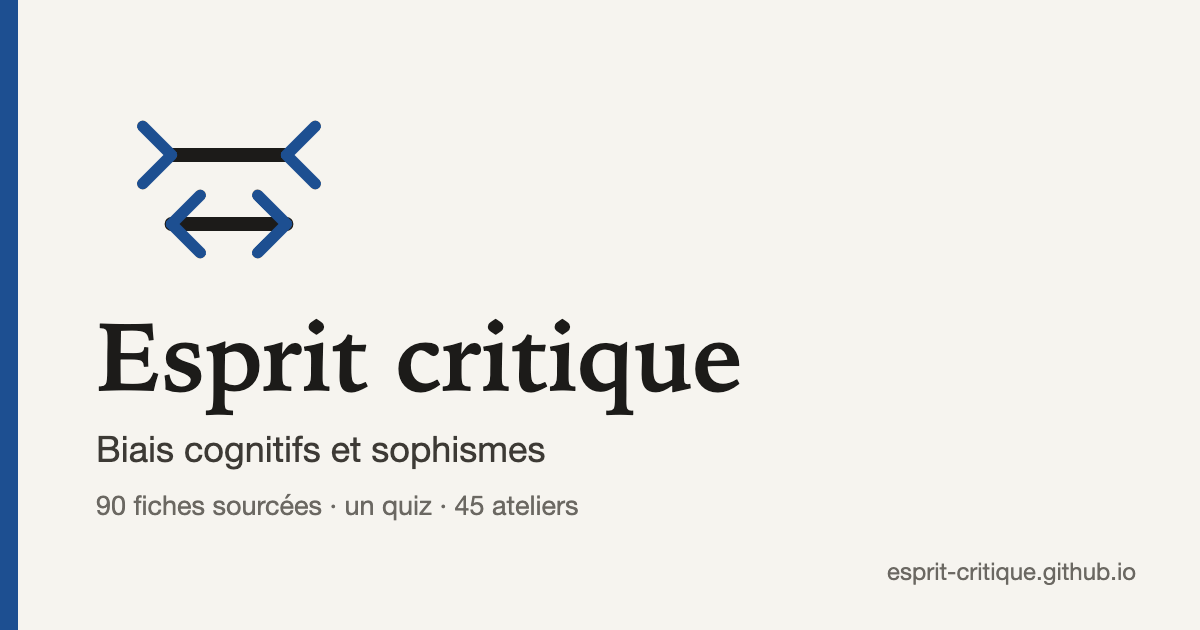
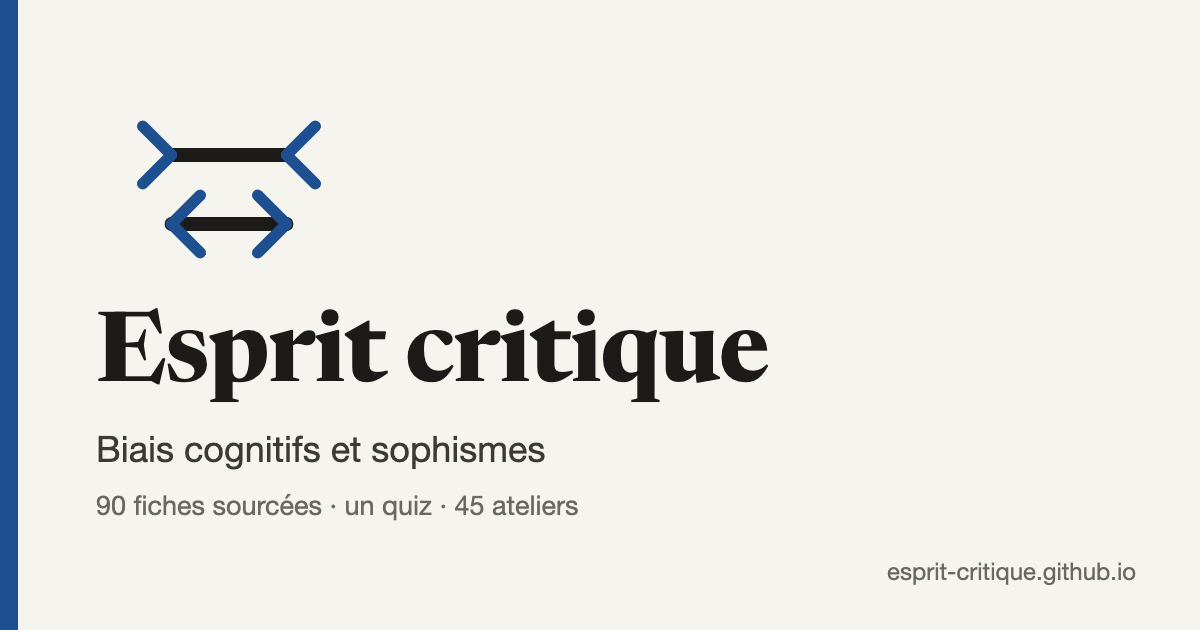
Identité, touche 6 : l'emblème comme ouverture ; charte DESIGN.md
- accueil d'un nouveau visiteur (aucune activité, aucun atelier) : l'emblème en
  grand, « Ces deux traits ont la même longueur » ; toucher le dessin (bouton,
  aria-pressed) révèle les repères, avec les classes de l'emblème de l'en-tête ;
- DESIGN.md : polices, couleurs, motif, corrections, numérotation, interdits ;
- image de partage régénérée en Newsreader (tests/pages/generer_apercu.sh) ;
- planches avant / après : tests/pages/planche.sh et planches.py.

Changed region(s): [[0.0617, 0.4825, 0.6475, 0.6635]]

diff --git a/static/app.js b/static/app.js
@@ -701,12 +701,38 @@ function situationDuJour() {
   return creerQuestion(type, fiche, alea);
 }
 
+// L'emblème de Müller-Lyer en grand : toucher le dessin révèle que les deux traits ont la même longueur.
+// Mêmes classes que l'emblème de l'en-tête (embleme-trait, embleme-ailette, embleme-guide, revele).
+function ouverture() {
+  const bloc = el("div", "ouverture");
+  const bouton = el("button", "ouverture-dessin");
+  bouton.setAttribute("aria-pressed", "false");
+  bouton.setAttribute("aria-label", "Vérifier : afficher des repères verticaux aux extrémités des traits");
+  const dessin = svg("svg", { viewBox: "0 0 40 28", class: "embleme", "aria-hidden": "true" });
+  dessin.append(svg("path", { class: "embleme-guide", d: "M10 2v24M30 2v24" }), svg("path", { class: "embleme-trait", d: "M10 8h20M10 20h20" }),
+    svg("path", { class: "embleme-ailette", d: "M10 8 5 3M10 8l-5 5M30 8l5-5M30 8l5 5M10 20l5-5M10 20l5 5M30 20l-5-5M30 20l-5 5" }));
+  bouton.appendChild(dessin);
+  bouton.addEventListener("click", () => {
+    const revele = dessin.classList.toggle("revele");
+    bouton.setAttribute("aria-pressed", String(revele));
+    if (revele) annoncer("Les repères le montrent : les deux traits ont la même longueur.");
+  });
+  const texte = el("p", null, "Ces deux traits ont la même longueur.");
+  texte.appendChild(el("small", null, "Le savoir ne change rien à ce que l'on voit : c'est tout le problème des biais. Touchez pour vérifier."));
+  bloc.append(bouton, texte);
+  return bloc;
+}
+
 function afficherAccueil() {
   const zone = $("vue-accueil");
   zone.innerHTML = "";
   const date = new Date().toLocaleDateString("fr-FR", { weekday: "long", day: "numeric", month: "long" });
   zone.append(el("p", "date-du-jour", date.charAt(0).toUpperCase() + date.slice(1)), el("h1", "page-titre", "Aujourd'hui"));
   zone.appendChild(el("p", "page-intro", BIAIS.length + " biais et " + SOPHISMES.length + " sophismes, un quiz qui revient sur vos erreurs, et " + tousLesAteliers().length + " ateliers : données réelles, perception, expériences classiques et philosophie."));
+
+  // Ouverture : pour un nouveau visiteur (aucune activité, aucun atelier), l'emblème en grand, première leçon du site
+  const resultats = lire("resultatsAteliers", {});
+  if (!lire("activite", []).length && !Object.keys(formeDe(resultats) === "objet" ? resultats : {}).length) zone.appendChild(ouverture());
 
   // Appel à l'action : réviser s'il y a des notions dues, sinon commencer le quiz ; les fiches en second choix
   const nbAReviser = clesAReviser().length;

diff --git a/tests/_test.html b/tests/_test.html
@@ -250,6 +250,20 @@ f.onload = async () => {
     ok("repérage : bloc du portrait", /Vos repérages/.test(vue().textContent) && /une publicité de soldes/.test(vue().textContent));
 
 
+    // ---------- Ouverture de l'accueil ----------
+    const sauveActivite = w.localStorage.getItem("activite"), sauveResultats = w.localStorage.getItem("resultatsAteliers");
+    w.localStorage.removeItem("activite"); w.localStorage.removeItem("resultatsAteliers");
+    await aller("quiz"); await aller("accueil");
+    const boutonOuv = vue().querySelector(".ouverture-dessin");
+    ok("ouverture : visible pour un nouveau visiteur, avant l'appel à l'action", !!boutonOuv && boutonOuv.closest(".ouverture").nextElementSibling.classList.contains("appel-action"));
+    boutonOuv.click();
+    ok("ouverture : toucher révèle les repères (aria-pressed)", boutonOuv.getAttribute("aria-pressed") === "true" && boutonOuv.querySelector("svg").classList.contains("revele"));
+    w.localStorage.setItem("activite", JSON.stringify([w.eval("aujourdHui()")]));
+    await aller("quiz"); await aller("accueil");
+    ok("ouverture : disparaît dès qu'une activité existe", !vue().querySelector(".ouverture"));
+    if (sauveActivite !== null) w.localStorage.setItem("activite", sauveActivite); else w.localStorage.removeItem("activite");
+    if (sauveResultats !== null) w.localStorage.setItem("resultatsAteliers", sauveResultats);
+
     // ---------- Numéros de catalogue ----------
     const numerosOk = ["biais", "sophismes"].every(t => { const n = w.eval("TYPES")[t].fiches.map(f => f.num).sort((a, b) => a - b); return n.every((v, i) => v === i + 1); });
     ok("numéros : uniques et sans trou, par type", numerosOk);

diff --git a/tests/pages/apercu.html b/tests/pages/apercu.html
@@ -1,10 +1,11 @@
 <!DOCTYPE html><html lang="fr"><head><meta charset="UTF-8"><style>
+@font-face { font-family: "Newsreader"; src: url("../../static/polices/newsreader-latin-opsz-normal.woff2") format("woff2"); font-weight: 200 800; }
 html, body { margin: 0; width: 1200px; height: 630px; overflow: hidden; }
 body { background: #f6f4ef; color: #1c1b19; font-family: -apple-system, "Helvetica Neue", Arial, sans-serif; display: flex; align-items: center; }
 .bloc { margin-left: 96px; }
 svg { width: 230px; height: 161px; fill: none; stroke-linecap: round; overflow: visible; display: block; margin: 0 0 40px 18px; }
 .trait { stroke: #1c1b19; stroke-width: 2.4; } .ailette { stroke: #1d4f91; stroke-width: 2; }
-h1 { font-family: "Iowan Old Style", "Palatino Linotype", Palatino, Georgia, serif; font-size: 96px; line-height: 1; margin: 0 0 22px; font-weight: 700; letter-spacing: -1px; }
+h1 { font-family: "Newsreader", "Iowan Old Style", Palatino, Georgia, serif; font-optical-sizing: auto; font-size: 96px; line-height: 1; margin: 0 0 22px; font-weight: 700; letter-spacing: -1px; }
 p { margin: 0; font-size: 36px; color: #3d3a35; }
 .detail { margin-top: 18px; font-size: 27px; color: #6b6862; }
 .filet { position: absolute; left: 0; top: 0; bottom: 0; width: 18px; background: #1d4f91; }

diff --git a/static/style.css b/static/style.css
@@ -1263,3 +1263,9 @@ h3.titre-bloc {
 .etiquette-numero { display: inline-flex; align-items: baseline; gap: 10px; flex-wrap: wrap; }
 .numero-fiche { font-family: var(--titre); font-variant-numeric: oldstyle-nums; font-size: 15px; color: var(--discret); }
 .lf-num { font-family: var(--titre); font-variant-numeric: oldstyle-nums; color: var(--discret); font-weight: 400; margin-right: 6px; }
+/* Ouverture de l'accueil (nouveau visiteur) : l'emblème en grand, à toucher */
+.ouverture { display: flex; gap: 16px; align-items: center; margin: 0 0 16px; padding: 12px 14px; background: var(--encadre); border-radius: var(--rayon); }
+.ouverture-dessin { flex: none; padding: 4px; margin: 0; border: 0; background: none; border-radius: var(--rayon); }
+.ouverture .embleme { width: 76px; height: 54px; display: block; }
+.ouverture p { margin: 0; font-family: var(--titre); font-size: 18px; line-height: 1.35; }
+.ouverture small { display: block; font-family: var(--police); font-size: 13.5px; color: var(--discret); margin-top: 4px; }

diff --git a/tests/pages/planches.py b/tests/pages/planches.py
@@ -1,0 +1,28 @@
+#!/usr/bin/env python3
+"""Planches « avant / après » de l'identité visuelle : pour chaque écran de référence, les captures avant et après,
+en clair et en sombre, côte à côte (tests/rapports/identite/planches/<écran>-<largeur>.png), par Chrome sans fenêtre.
+python3 tests/pages/planches.py [étape finale, par défaut apres-6]"""
+import os, signal, subprocess, sys, tempfile, time
+ICI = os.path.dirname(os.path.abspath(__file__))
+DOSSIER = os.path.abspath(os.path.join(ICI, "..", "rapports", "identite"))
+APRES = sys.argv[1] if len(sys.argv) > 1 else "apres-6"
+ECRANS = ["accueil", "biais", "biais-ancrage", "sophismes-ad-hominem", "quiz-faux", "vf-bilan", "guide"]
+os.makedirs(os.path.join(DOSSIER, "planches"), exist_ok=True)
+for largeur, echelle in [(390, 1.0), (1280, 0.42)]:
+    for e in ECRANS:
+        cellules = "".join(f'<figure><figcaption>{etape} · {theme}</figcaption><img src="{DOSSIER}/{etape}/{e}-{theme}-{largeur}.png"></figure>'
+                           for theme in ["clair", "sombre"] for etape in ["avant", APRES])
+        l = int(largeur * echelle)
+        page = f'''<!DOCTYPE html><meta charset="UTF-8"><style>body{{margin:0;padding:16px;background:#ddd;font:15px -apple-system,sans-serif;display:flex;gap:12px}}
+figure{{margin:0}}figcaption{{margin:0 0 6px;font-weight:600}}img{{width:{l}px;display:block;border:1px solid #999}}</style>{cellules}'''
+        html = os.path.join(tempfile.mkdtemp(), "planche.html"); open(html, "w").write(page)
+        sortie = os.path.join(DOSSIER, "planches", f"{e}-{largeur}.png")
+        hauteur = int((844 if largeur == 390 else 900) * echelle) + 70
+        p = subprocess.Popen(["/Applications/Google Chrome.app/Contents/MacOS/Google Chrome", "--headless=new", "--disable-gpu", "--hide-scrollbars",
+            "--user-data-dir=" + tempfile.mkdtemp(), f"--window-size={4 * l + 80},{hauteur}", "--virtual-time-budget=2000",
+            "--allow-file-access-from-files", "--screenshot=" + sortie, "file://" + html], stdout=subprocess.DEVNULL, stderr=subprocess.DEVNULL, start_new_session=True)
+        for _ in range(40):
+            if os.path.exists(sortie) and os.path.getsize(sortie): break
+            time.sleep(0.5)
+        time.sleep(0.5); os.killpg(p.pid, signal.SIGKILL)
+        print(sortie)

diff --git a/DESIGN.md b/DESIGN.md
@@ -1,0 +1,49 @@
+# Charte graphique d'Esprit critique
+
+Une page de règles, pour que les prochaines modifications gardent l'identité du site. La mise en page (cartes, barre
+de couleur de catégorie à gauche, navigation, espacements) ne change pas : l'identité tient à six touches.
+
+## Polices
+
+- **`--titre`** : Newsreader (Production Type, licence SIL OFL 1.1), hébergée dans `static/polices/`, sous-ensemble
+  latin. Pour les titres, les situations du quiz, les citations, les étiquettes et les verdicts.
+  Taille optique automatique (`font-optical-sizing: auto`) sur les titres.
+- **`--police`** : police système, pour tout le texte courant, les boutons et les champs.
+- **Étiquettes** (surtitres, étiquettes de catégorie, intertitres de fiche, consignes) : capitales du caractère de
+  titre, 12,5 px, graisse 650, espacement 0,07 em. Newsreader n'a pas de glyphes de petites capitales : ne pas
+  utiliser `font-variant-caps: all-small-caps`, que chaque navigateur fabriquerait différemment.
+- **Chiffres elzéviriens** (`oldstyle-nums`) pour les scores, les nombres des tuiles et les numéros de fiche.
+- Un caractère absent du sous-ensemble latin (≈, →, exposants ⁴ à ⁹…) est pris dans la police suivante de `--titre`.
+  Contrôle : `python3 tests/pages/couverture_police.py`.
+
+## Couleurs
+
+Les jetons existants de `static/style.css` (`--fond`, `--carte`, `--texte`, `--discret`, `--trait`, `--accent`,
+`--vert`, `--rouge`, `--orange`, `--encadre`, et `--c` avec ses dérivés `--c-fort`, `--c-texte`, `--c-clair`,
+`--sur-c` pour la couleur de catégorie), en clair et en sombre. **Aucun jeton nouveau.** Contraste : 4,5:1 pour le
+texte (3:1 en grands caractères), vérifié par le contrôle d'affichage (`contraste-faible`).
+
+## Motif
+
+Le **trait de Müller-Lyer** (le trait du haut de l'emblème, ailettes ouvertes) sert de séparateur entre les sections
+des fiches et des explications (`.section::before`). Il est décoratif. **Réservé aux séparateurs** : ni les bordures
+des cartes, ni les listes. L'emblème lui-même apparaît dans l'en-tête et, pour un nouveau visiteur, dans
+l'ouverture de l'accueil ; toucher l'un ou l'autre révèle les repères verticaux.
+
+## Corrections
+
+Le site corrige comme un correcteur : une réponse fausse est **barrée en rouge** (`.choix.faux`), le verdict est une
+**annotation en italique** du caractère de titre (19 px, 17 px au-delà d'une ligne). Le barré ne remplace jamais
+l'information : le texte « Réponse attendue : … » reste présent.
+
+## Numérotation des fiches
+
+Chaque fiche a un numéro de catalogue (champ `num` de `static/donnees.js`), affiché « B 10 » (biais) ou « S 7 »
+(sophisme), lu « Biais numéro 10 » par les lecteurs d'écran. **Stable** : une nouvelle fiche prend le numéro suivant
+libre de son type, et un numéro n'est jamais réattribué. La recherche accepte « B 10 », « b10 », « S7 ».
+
+## Proscrit
+
+Refonte de la mise en page, nouvelle palette, dégradés, ombres portées, illustrations décoratives, mascotte,
+animations nouvelles, bibliothèque externe, police chargée depuis un service tiers. Aucun style dans
+un attribut `style=""` ni dans une balise `<style>` du HTML (politique de sécurité du contenu).

diff --git a/README.md b/README.md
@@ -58,6 +58,8 @@ pour l'utiliser comme une application.
 
 ## Principes
 
+Charte graphique (polices, couleurs, motif, corrections, numérotation des fiches) : [DESIGN.md](DESIGN.md).
+
 - **Sources vérifiées** : chaque chiffre est accompagné de sa source ; les résultats discutés ou non répliqués
   sont signalés comme tels.
 - **Aucun compte, aucune donnée envoyée** : la progression est enregistrée uniquement dans le navigateur du
@@ -93,7 +95,8 @@ puis ouvrir http://localhost:8000. Le serveur n'accepte que les connexions de l'
 | `static/indices.js` | « Trouver l'indice » : le passage révélateur de chacune des 180 situations |
 | `static/sw.js` | mode hors ligne ; à chaque nouveau fichier, l'ajouter à la liste et changer le numéro de version |
 | `static/mentions-legales.html`, `confidentialite.html`, `cgu.html`, `404.html` | pages fixes, générées par `tests/pages/generer_pages.py` (ne pas les modifier à la main) |
-| `static/robots.txt`, `static/sitemap.xml`, `static/apercu.png` | référencement et aperçu de partage (source de l'image : `tests/pages/apercu.html`) |
+| `static/robots.txt`, `static/sitemap.xml`, `static/apercu.png` | référencement et aperçu de partage (`tests/pages/generer_apercu.sh` régénère l'image à partir de `tests/pages/apercu.html`) |
+| `static/polices/` | Newsreader, caractère de titre (licence SIL OFL, `OFL.txt`) |
 | `static/jeux-donnees.js`, `static/pays.js` | contenus et données des ateliers |
 | `app.py` | petit serveur local (Python, sans dépendance) |
 
